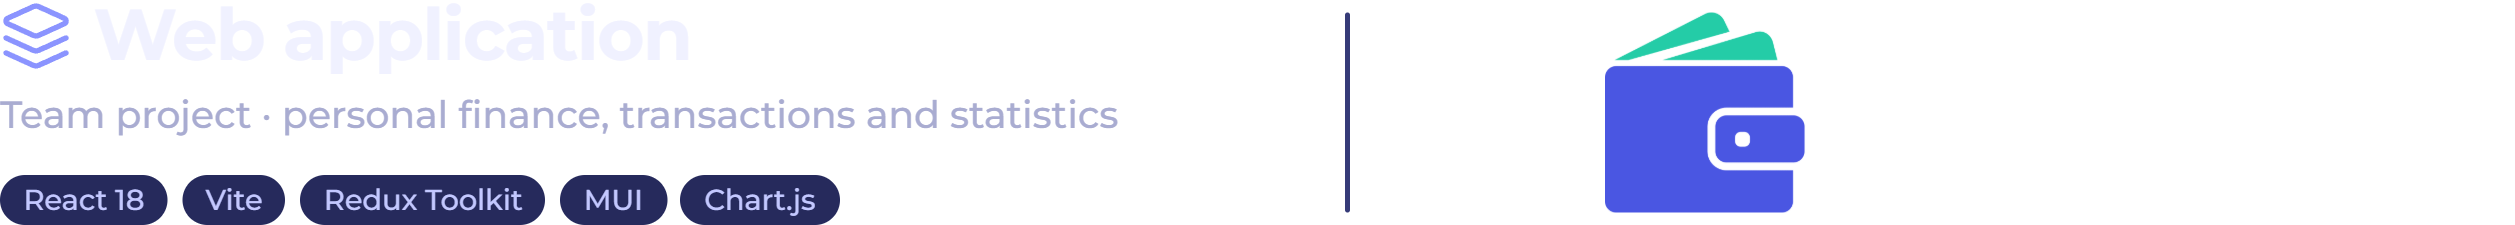
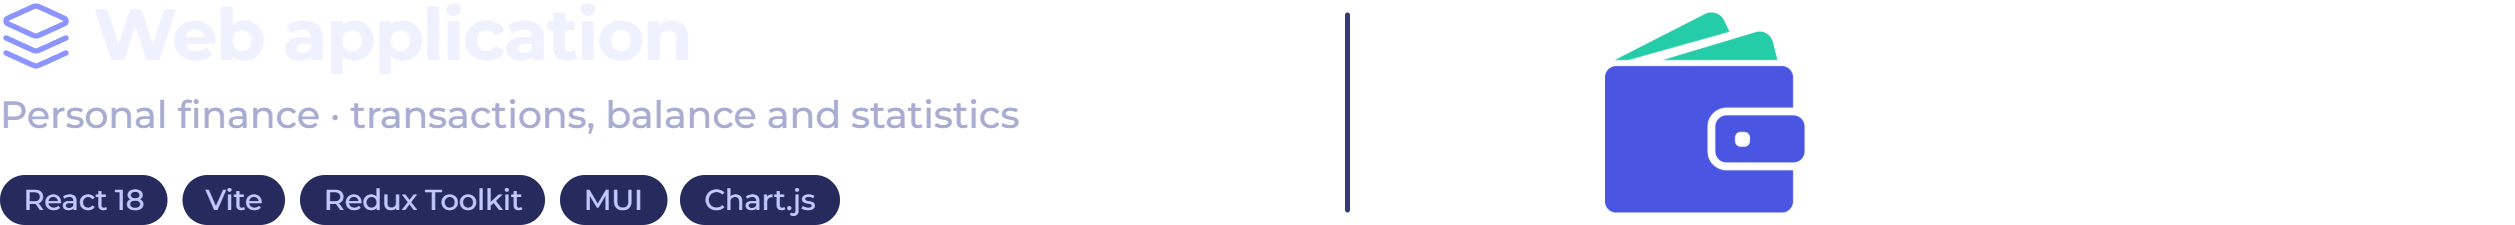
docs(readme): describe the technology and the functions, not the course or the group
- the About, Status and Departures texts say what the project does and how it is built
- the team stays in the Team section only
- the README no longer mentions a course, an exercise or a university

Changed region(s): [[0.0, 0.4356, 0.4652, 0.5911]]

diff --git a/README.md b/README.md
@@ -1,7 +1,7 @@
 <p align="center">
   <picture>
     <source media="(prefers-color-scheme: dark)" srcset="docs/images/banner-dark.png">
-    <img src="docs/images/banner-light.png" alt="Wallet: a personal finance manager, a React team project" width="100%">
+    <img src="docs/images/banner-light.png" alt="Wallet: a personal finance manager built with React" width="100%">
   </picture>
 </p>
 
@@ -15,7 +15,7 @@
 
 **Wallet Manager** is a cutting-edge application tailored for efficient personal finance management. With a user-centric
 design and adaptability across diverse devices, it empowers users to effortlessly monitor transactions, track account
-balances, analyze expenditures, and strategize budgets. It is a team project of the S7ven Survivors team.
+balances, analyze expenditures, and strategize budgets.
 
 - **Accounts.** Registration with e-mail confirmation (with a "resend" button) and login; the session is kept with
   `redux-persist`, and the private pages are guarded by `PrivateRoute` / `RestrictedRoute`.
@@ -28,7 +28,7 @@ balances, analyze expenditures, and strategize budgets. It is a team project of 
 - **Deployed by Actions.** A push to `main` builds the app and publishes it to GitHub Pages once the repository's
   Pages source is set to GitHub Actions; until then the live site is served from the `gh-pages` branch.
 
-> **Status:** a finished course project. The API is the Express and MongoDB backend in
+> **Status:** the API is the Express and MongoDB backend in
 > [`wallet`](https://github.com/DamTchorzewski/wallet), hosted on Render; its first answer after a pause can take a
 > while. The "resend the confirmation e-mail" request in `RegistrationForm.jsx` still points at an older API host.
 
@@ -110,11 +110,11 @@ Commits in English. `static.yml` builds every push to `main` and publishes it to
 
 **Departures from the standards (and why):**
 
-- **A team project from a course:** the team worked on feature branches straight into `main`; there is no `develop`.
+- **Feature branches straight into `main`:** the team worked this way; there is no `develop`.
 - **No CI beyond the deploy workflow, no tests and no `.env.example`:** the app has no configuration.
 - **npm, not pnpm, and no `.nvmrc`:** the project predates the standards.
 - **README images:** made by `tools/readme-images` (profile `S7venSurvivors-Wallet`); where a login is needed they are the team's own screenshots (see Screenshots).
-- **No DamReboot footer:** a team project, not a company one.
+- **No DamReboot footer:** the repository belongs to a team of authors.
 
 ## Documentation
 

diff --git a/docs/repository.md b/docs/repository.md
@@ -9,7 +9,7 @@ GitHub: strona repozytorium → ⚙ obok „About” → pola poniżej. Opis ma 
 **Opis (Description):**
 
 ```text
-Wallet Manager: a personal finance app for tracking transactions, balance and expenses by category, with a doughnut chart, currency rates and a mobile layout. React 18, Vite, Redux Toolkit, MUI and Chart.js; a team project of the S7ven Survivors, talking to the Express and MongoDB wallet API.
+Personal finance manager: React and Redux Toolkit app with transaction statistics in Chart.js.
 ```
 
 **Strona (Website):**
@@ -21,13 +21,13 @@ https://damtchorzewski.github.io/S7venSurvivors-Wallet/
 **Tagi (Topics):**
 
 ```text
-react vite redux-toolkit material-ui chartjs personal-finance finance-app expense-tracker responsive-design rest-api github-pages github-actions team-project
+react vite redux-toolkit material-ui chartjs personal-finance finance-app expense-tracker responsive-design rest-api github-pages github-actions
 ```
 
 Z GitHub CLI (`gh`) to samo jedną komendą:
 
 ```bash
-gh repo edit DamTchorzewski/S7venSurvivors-Wallet --homepage "https://damtchorzewski.github.io/S7venSurvivors-Wallet/" --description "Wallet Manager: a personal finance app for tracking transactions, balance and expenses by category, with a doughnut chart, currency rates and a mobile layout. React 18, Vite, Redux Toolkit, MUI and Chart.js; a team project of the S7ven Survivors, talking to the Express and MongoDB wallet API." --add-topic react --add-topic vite --add-topic redux-toolkit --add-topic material-ui --add-topic chartjs --add-topic personal-finance --add-topic finance-app --add-topic expense-tracker --add-topic responsive-design --add-topic rest-api --add-topic github-pages --add-topic github-actions --add-topic team-project
+gh repo edit DamTchorzewski/S7venSurvivors-Wallet --homepage "https://damtchorzewski.github.io/S7venSurvivors-Wallet/" --description "Personal finance manager: React and Redux Toolkit app with transaction statistics in Chart.js." --add-topic react --add-topic vite --add-topic redux-toolkit --add-topic material-ui --add-topic chartjs --add-topic personal-finance --add-topic finance-app --add-topic expense-tracker --add-topic responsive-design --add-topic rest-api --add-topic github-pages --add-topic github-actions
 ```
 
 Dotychczasowe tagi `database`, `loader`, `netlify`, `html-css-javascript`, `nodejs`, `router-dom`, `wallet`, `finanse` opisują stare wdrożenie lub są zbyt ogólne; zdejmij je w polu „Topics”.
